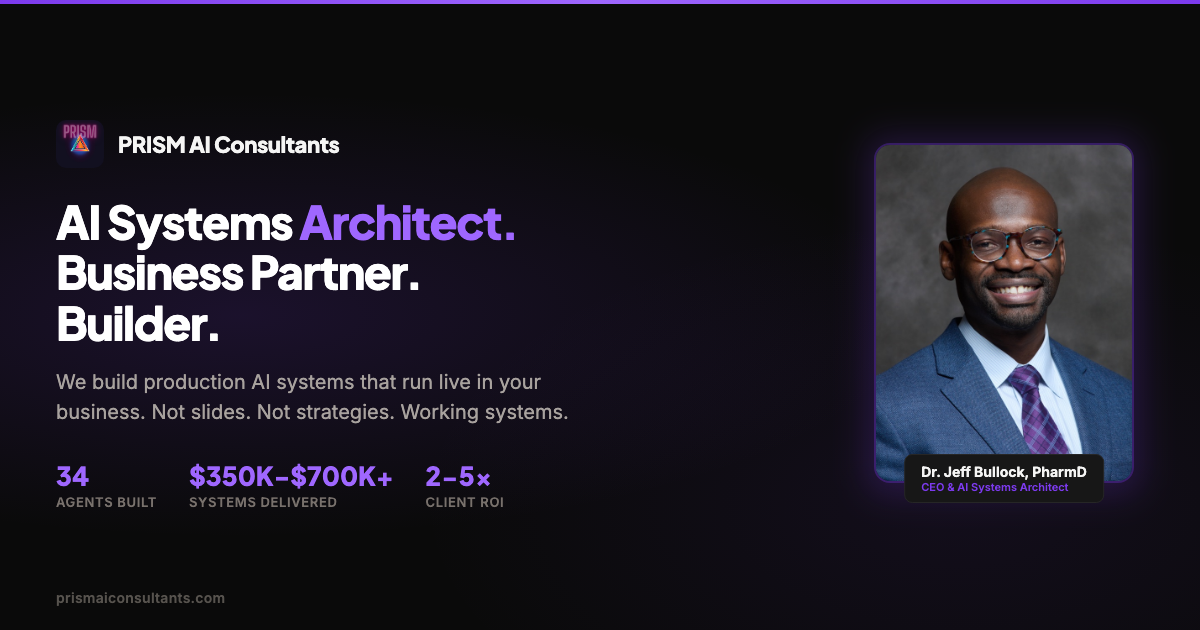
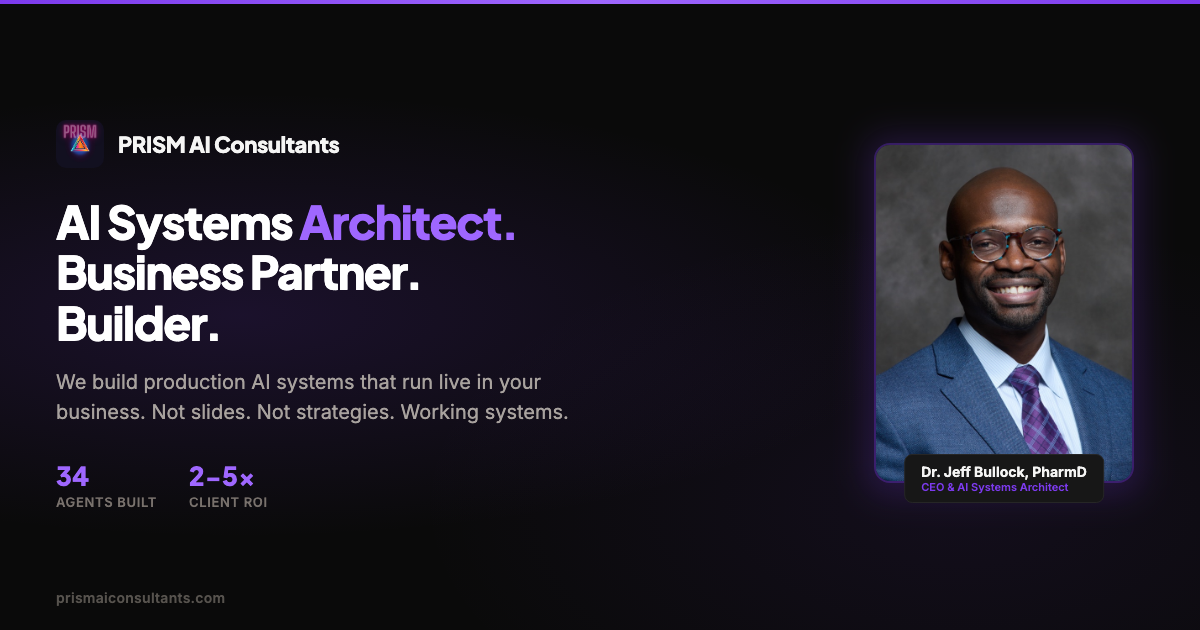
Compliance: strip $350K-$700K+ value claim from about, results, portfolio, lehigh-valley pages, OG image and scorecard PDF

Changed region(s): [[0.1542, 0.7238, 0.4317, 0.8143]]

diff --git a/src/app/about/page.tsx b/src/app/about/page.tsx
@@ -14,7 +14,7 @@ export const metadata: Metadata = {
   alternates: { canonical: "/about" },
   title: "About Dr. Jeff Bullock - AI Systems Architect",
   description:
-    "Pharm.D. turned AI Systems Architect. Founder of 2 AI companies and creator of an estimated $350K to $700K in production AI system value for clients.",
+    "Pharm.D. turned AI Systems Architect. Founder of 2 AI companies, including PRISM AI Consultants, which installs production AI systems inside client businesses and makes them run.",
 };
 
 const communityInvolvements = [
@@ -65,9 +65,8 @@ export default function AboutPage() {
                 </p>
                 <p className="text-lg font-medium text-foreground">
                   &ldquo;I don&rsquo;t talk about AI. I build AI systems that run
-                  my own business. I&rsquo;ve delivered $350K to $700K in AI
-                  system value to clients, most built in days, not
-                  months.&rdquo;
+                  my own business, then build the same systems for clients,
+                  most in days, not months.&rdquo;
                 </p>
                 <p>
                   Every system PRISM delivers was proven internally first. The
@@ -110,7 +109,7 @@ export default function AboutPage() {
             stats={[
               { value: "18", label: "Years in Operations Leadership" },
               { value: "2", label: "AI Companies Founded" },
-              { value: "$350K-$700K+", label: "In Est. Client System Value" },
+              { value: "22", label: "Client-Facing Builds" },
               { value: "750+", label: "Coaching Sessions Delivered" },
             ]}
           />

diff --git a/src/app/results/page.tsx b/src/app/results/page.tsx
@@ -15,7 +15,7 @@ export const metadata: Metadata = {
   alternates: { canonical: "/results" },
   title: "Results - Client Transformations & ROI",
   description:
-    "$350K-$700K+ in AI system value delivered to clients. Real transformations, real numbers. Most systems built in days, not months.",
+    "Client transformations from PRISM AI Consultants: production AI systems built and running inside real businesses. Most systems built in days, not months.",
 };
 
 const transformations = [
@@ -84,7 +84,7 @@ export default function ResultsPage() {
         <Container>
           <StatsBar
             stats={[
-              { value: "$350K-$700K+", label: "In System Value Delivered to Clients" },
+              { value: "22", label: "Client-Facing Builds" },
               { value: "Under 1 Week", label: "Most Systems Deployed" },
               { value: "7-13x", label: "System Value vs. Price Paid" },
               { value: "750+", label: "Coaching Sessions Delivered" },
@@ -244,7 +244,7 @@ export default function ResultsPage() {
         <Container size="md">
           <div className="text-center">
             <p className="text-2xl font-bold tracking-tight text-foreground">
-              Clients have received $350K-$700K+ in AI system value.
+              Clients get working AI systems, not slide decks.
             </p>
             <p className="mt-2 text-2xl font-bold tracking-tight text-accent">
               Most deployed in under a week.

diff --git a/src/app/lehigh-valley-ai-consulting/page.tsx b/src/app/lehigh-valley-ai-consulting/page.tsx
@@ -28,7 +28,7 @@ export const metadata: Metadata = {
     title:
       "AI Consulting & Systems Architecture in the Lehigh Valley",
     description:
-      "Production AI systems for Lehigh Valley businesses. $350K-$700K+ in estimated system value across 25+ client builds. Based in Allentown, PA.",
+      "Production AI systems for Lehigh Valley businesses, built and run inside your business. 25+ client builds. Based in Allentown, PA.",
   },
 };
 
@@ -77,7 +77,7 @@ const reasons = [
     icon: "\u{2699}\uFE0F",
     title: "Production Systems, Not Slide Decks",
     description:
-      "$350K-$700K+ in estimated AI system value across 25+ client builds. Every engagement produces working software that runs in your business, not a PDF with recommendations.",
+      "25+ client builds. Every engagement produces working software that runs in your business, not a PDF with recommendations.",
   },
   {
     icon: "\u{1F4B0}",

diff --git a/scripts/generate-og-image.js b/scripts/generate-og-image.js
@@ -221,10 +221,6 @@ async function generateOGImage() {
           <span class="stat-label">Agents Built</span>
         </div>
         <div class="stat">
-          <span class="stat-value">$350K-$700K+</span>
-          <span class="stat-label">Systems Delivered</span>
-        </div>
-        <div class="stat">
           <span class="stat-value">2-5x</span>
           <span class="stat-label">Client ROI</span>
         </div>

diff --git a/src/app/portfolio/page.tsx b/src/app/portfolio/page.tsx
@@ -99,7 +99,6 @@ export default function PortfolioPage() {
             </h2>
             <p className="mx-auto mt-6 max-w-2xl text-lg text-muted-foreground">
               22 client-facing builds. 3 internal platforms.
-              $350,000 to $700,000+ in system value delivered.
               Most built in days, not months.
             </p>
             <div className="mt-10 grid grid-cols-2 gap-8 md:grid-cols-4">

diff --git a/public/downloads/generate_scorecard.py b/public/downloads/generate_scorecard.py
@@ -465,7 +465,7 @@ def page_cta(c):
     c.drawCentredString(W / 2, y - 22, "34 autonomous agents built.")
     c.setFillColor(TEXT_TERTIARY)
     c.setFont("Helvetica", 11)
-    c.drawCentredString(W / 2, y - 40, "$350K - $700K+ in systems delivered to clients.")
+    c.drawCentredString(W / 2, y - 40, "Production AI systems built for real businesses.")
 
     # CTA Card
     y -= stats_h + 25
